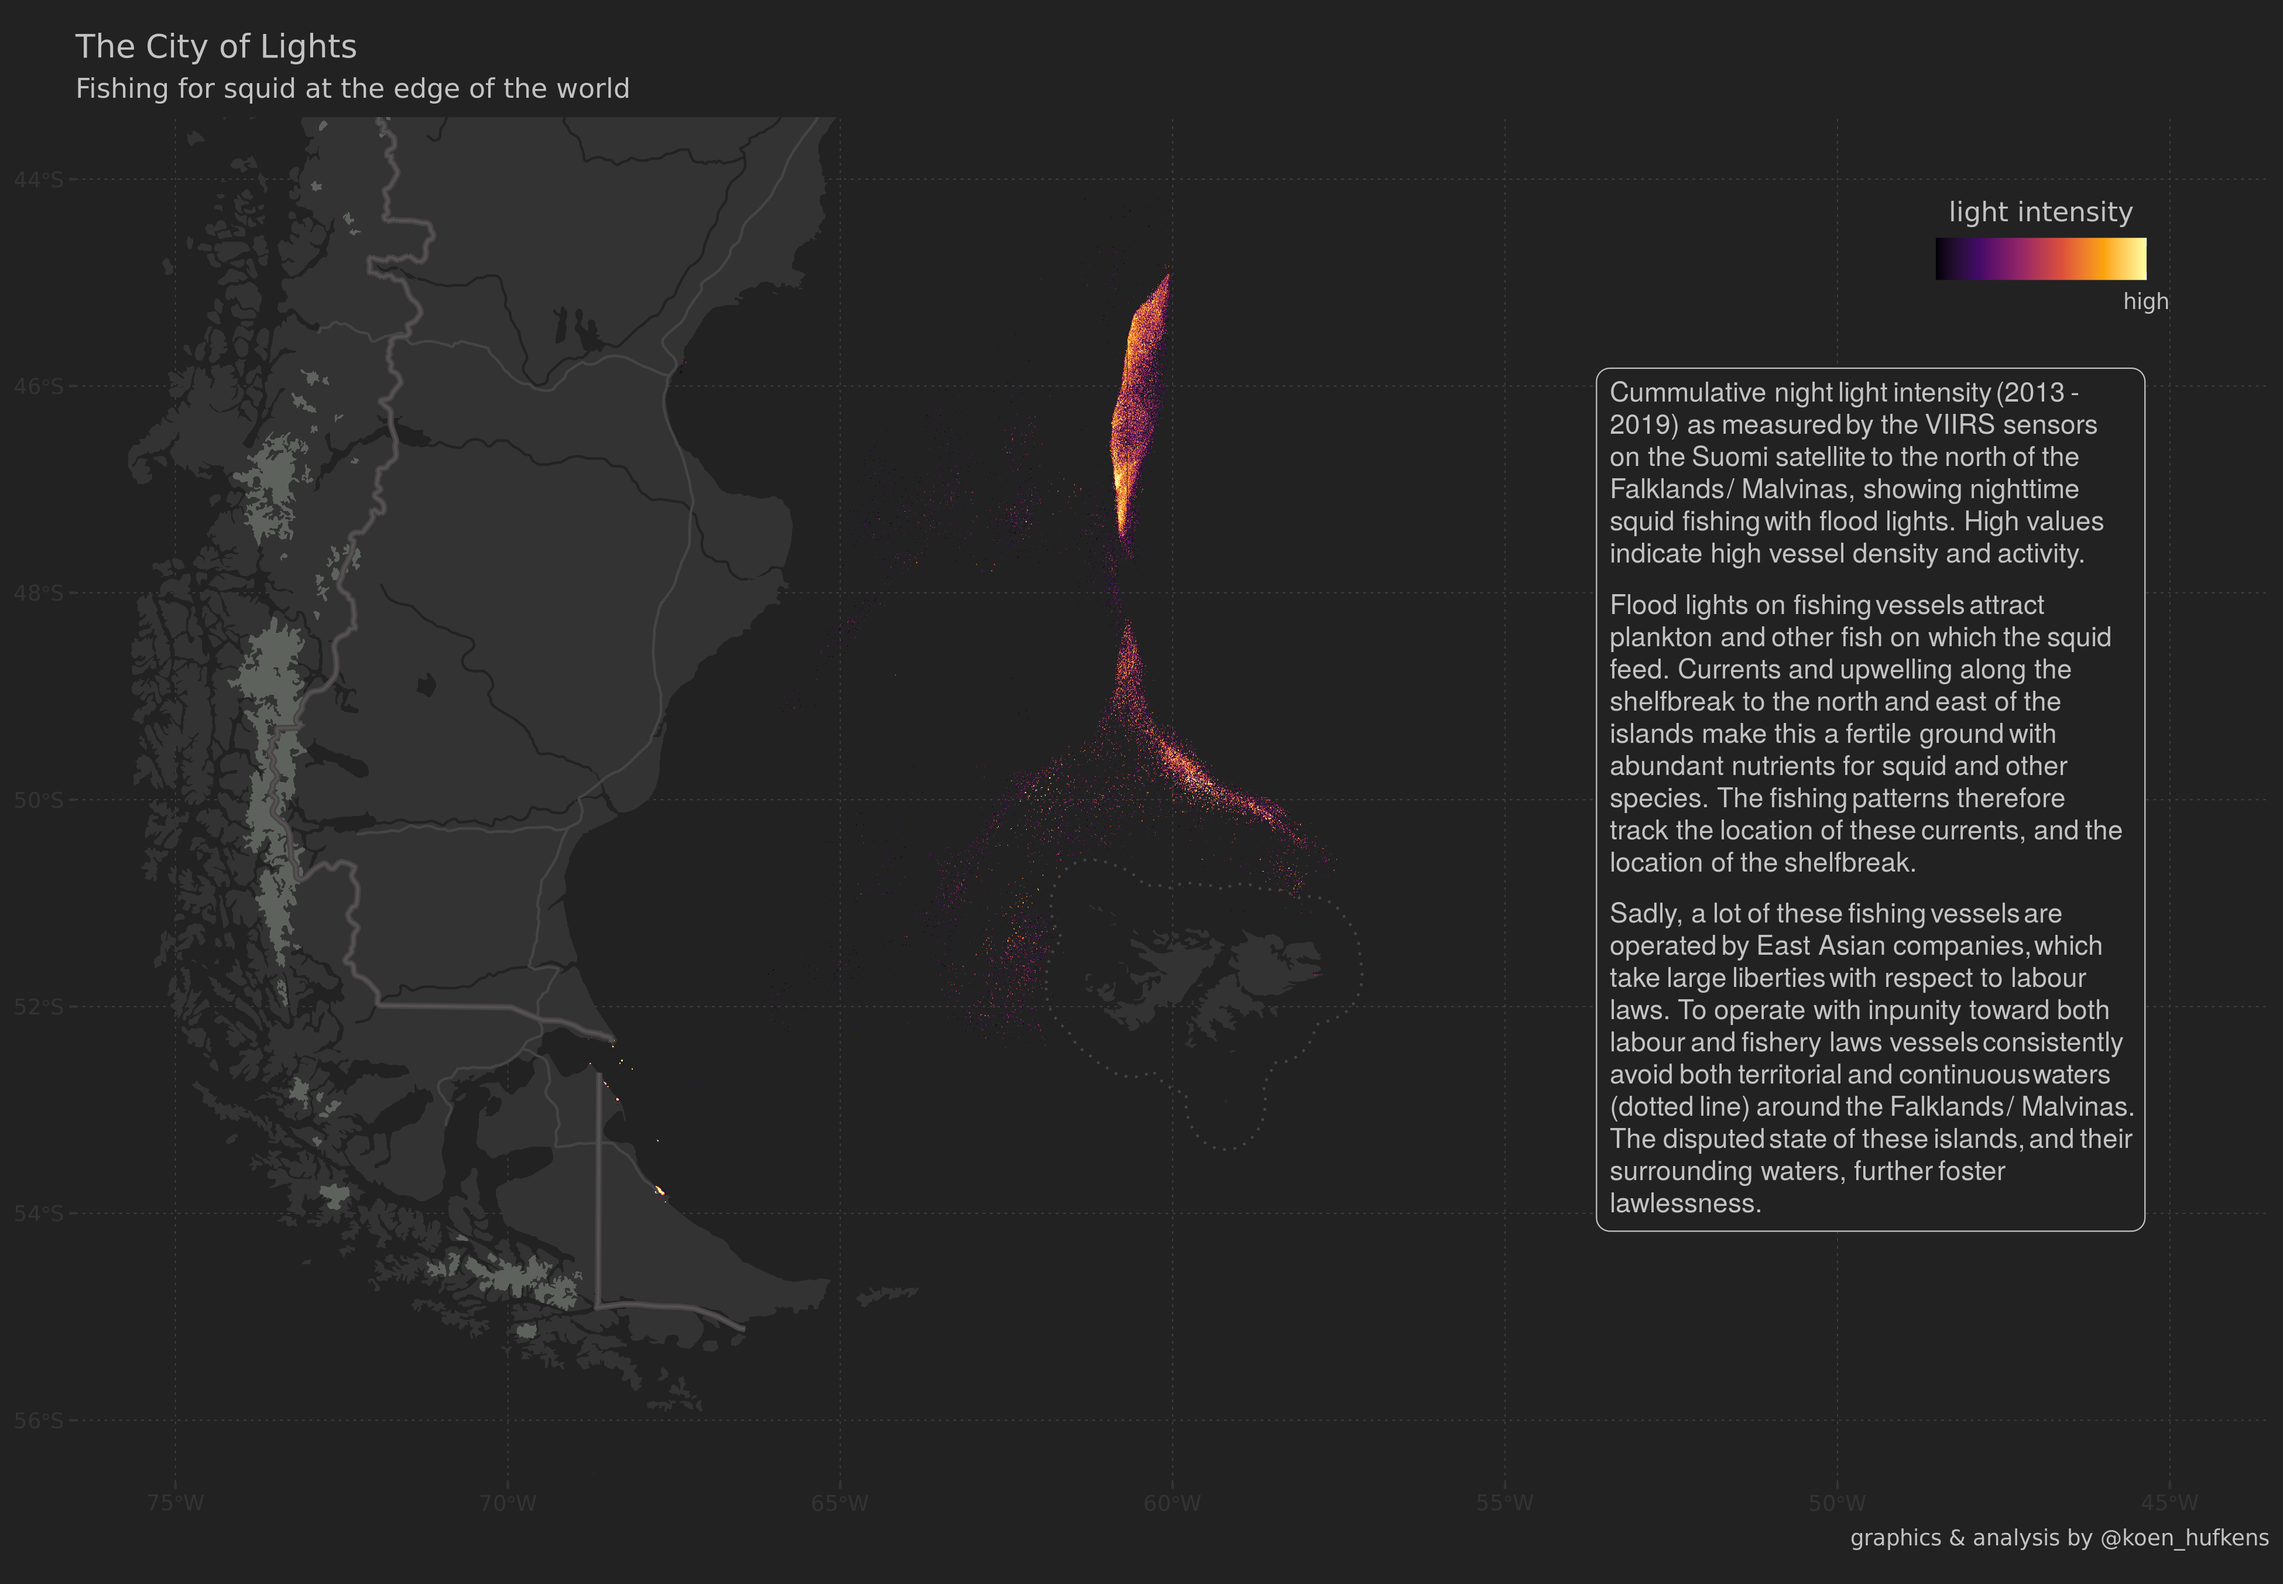
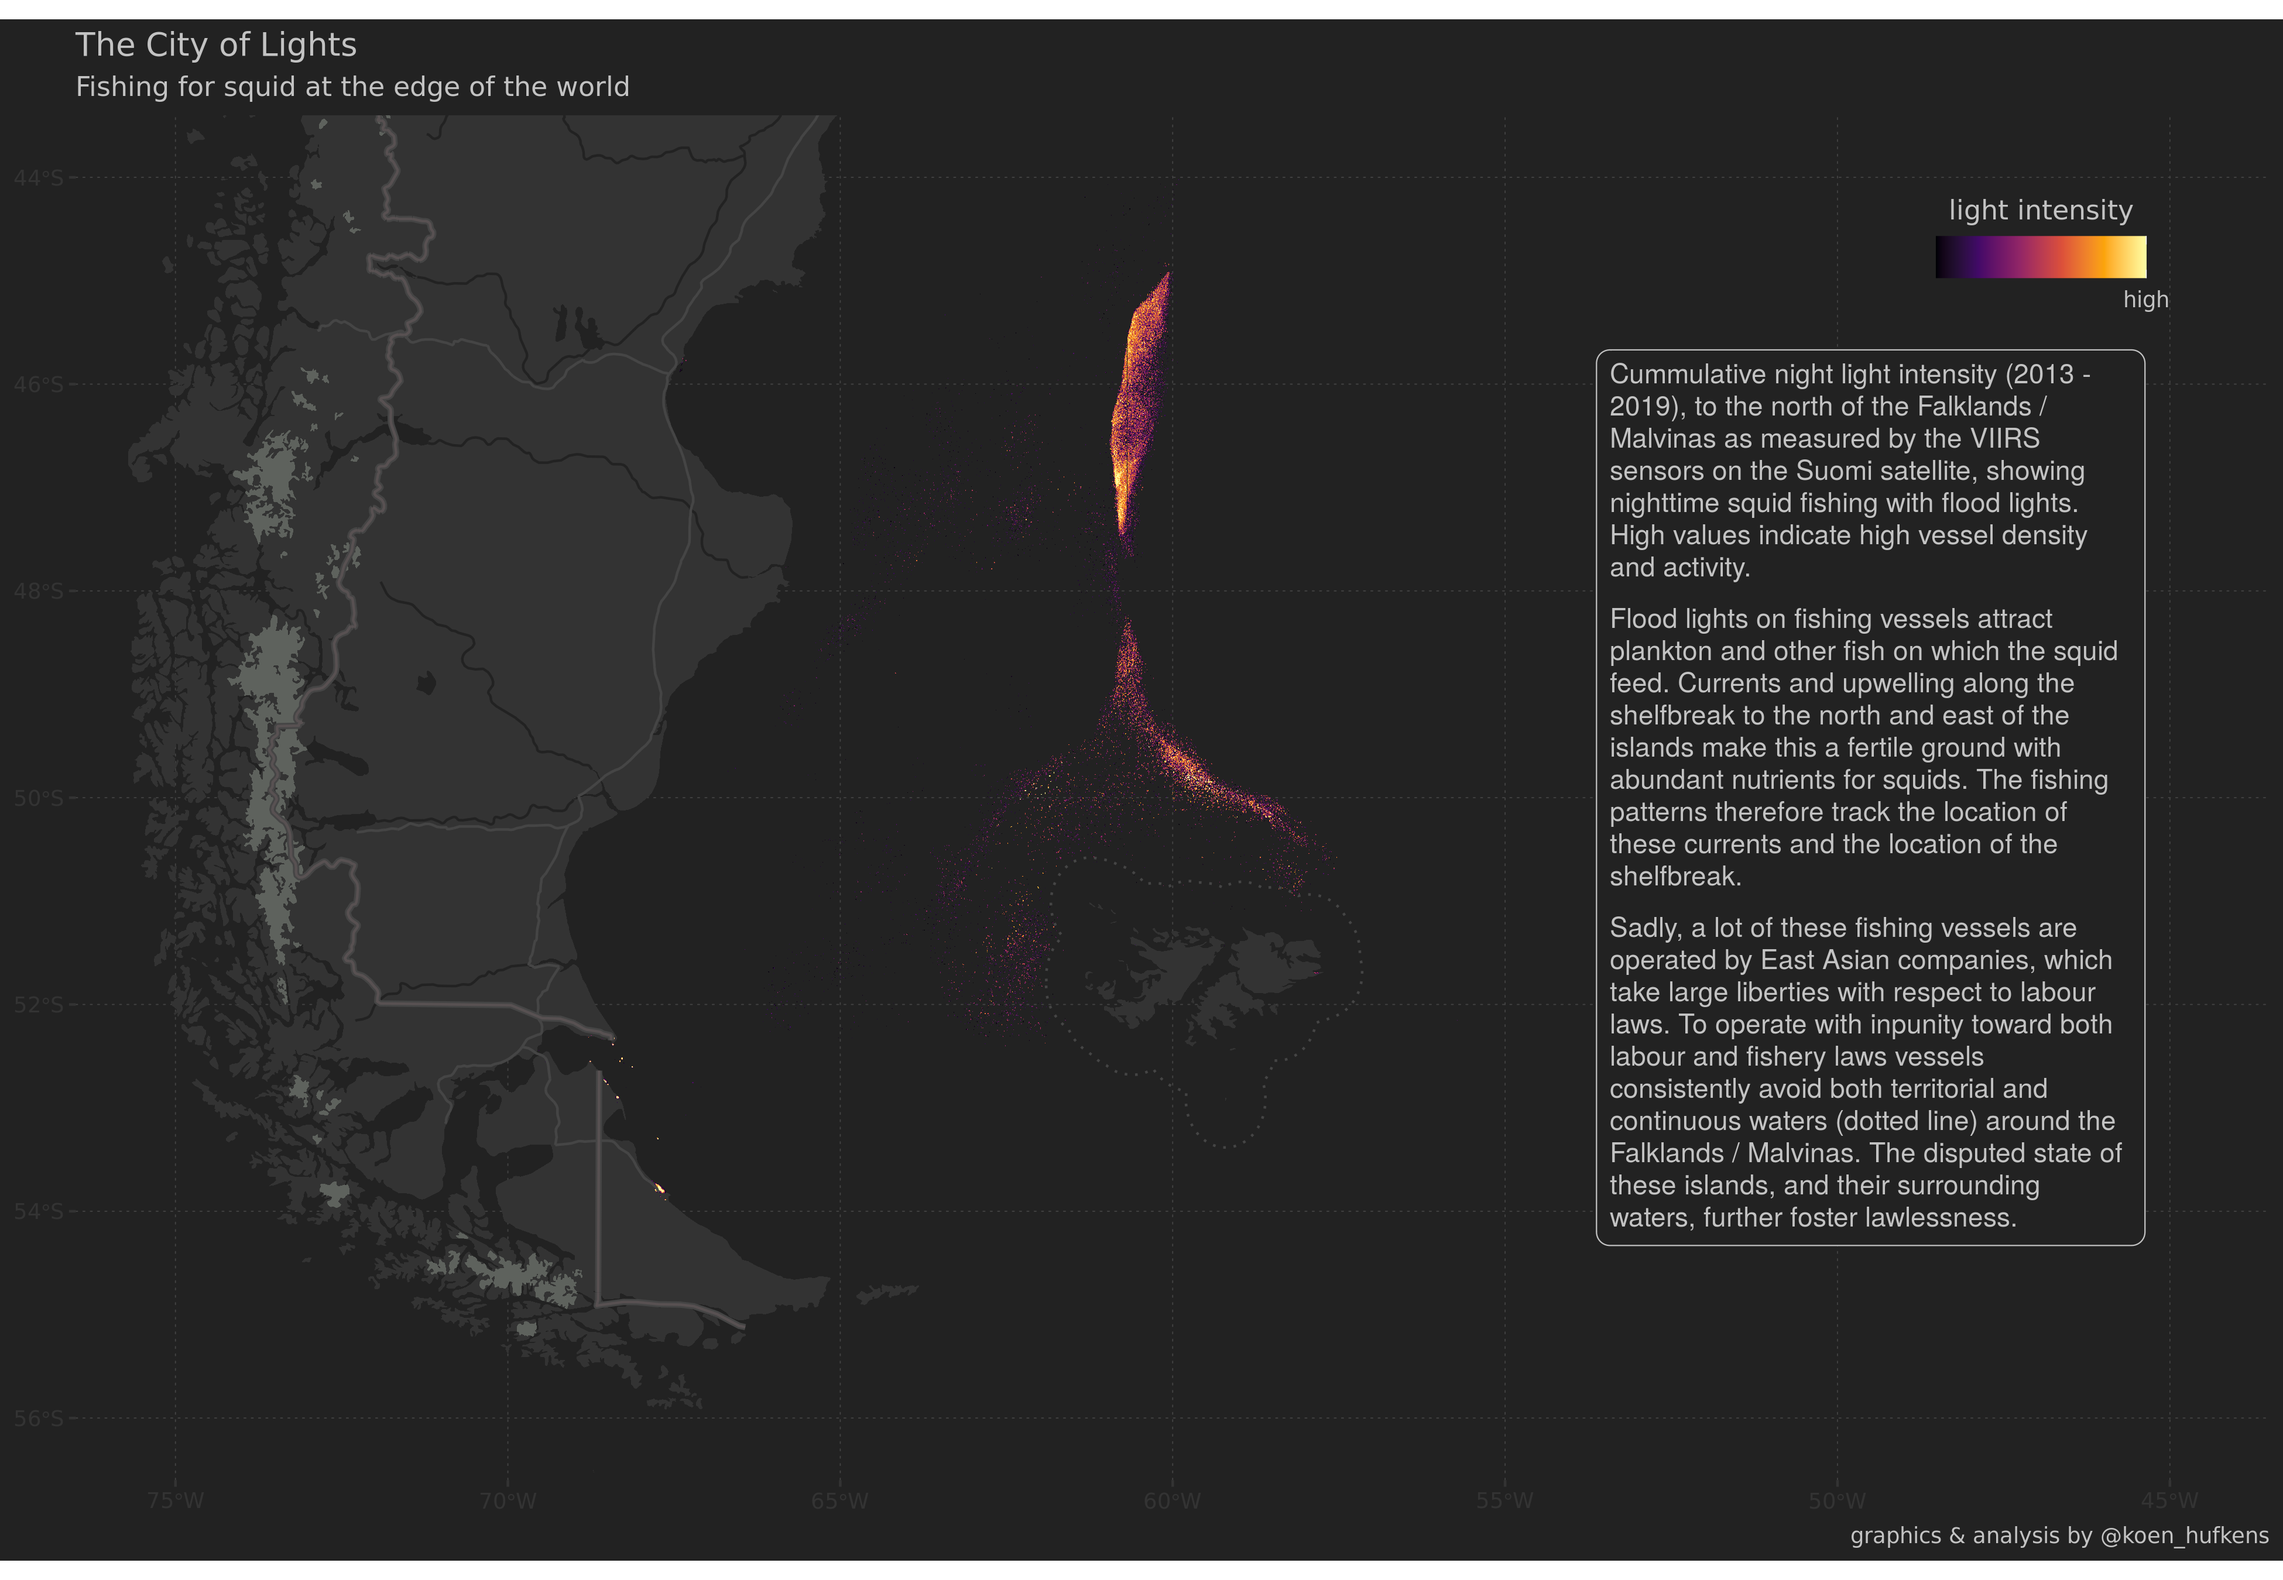
readme etc.

diff --git a/README.md b/README.md
@@ -1,0 +1,11 @@
+# The City of Lights
+
+This is the code and data to make a figure inspired by reading The Outlaw Ocean by Ian Urbina. In this book he mentions “the city of lights”, a (squid) fishing ground to the north of the Falklands. Illegal fishing vessels in this area light up the ocean to attract / catch squid. Being stuck inside I made a first pass of a map of this.
+
+As you can see below, the statement in the book is certainly not figurative. One can indeed see these flood lights from space. They trace nicely along the shelfbreak and dominant currents in the area, which provide ample food for the squid. For the mini story I refer to the annotations on the figure below!
+
+The data was sourced from the Suomi NPP satellite VIIRS nigthttime sensors. I took a cummulative sum of all values across 6 years of data. So, the intensity of the light across all years is roughly indicative of fishing vessel presence.
+
+The whole map was made in R using ggplot2 and was in part an exercise in making a glossy magazine style figure. I still need to add some labels and clean up the text. But, I think this came out nicely, while at the same time brushing up my (ggplot2) mapping skills.
+
+![](https://raw.githubusercontent.com/khufkens/city_of_lights/master/city_of_lights.png)
